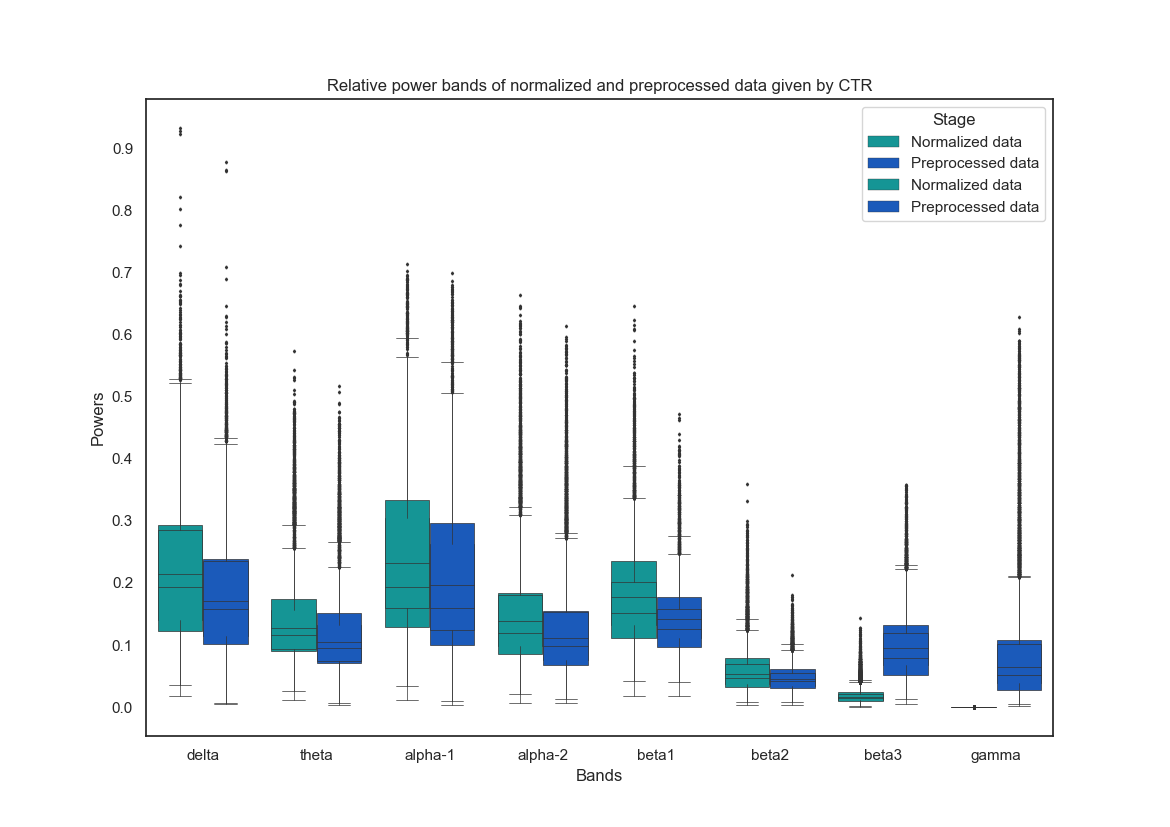
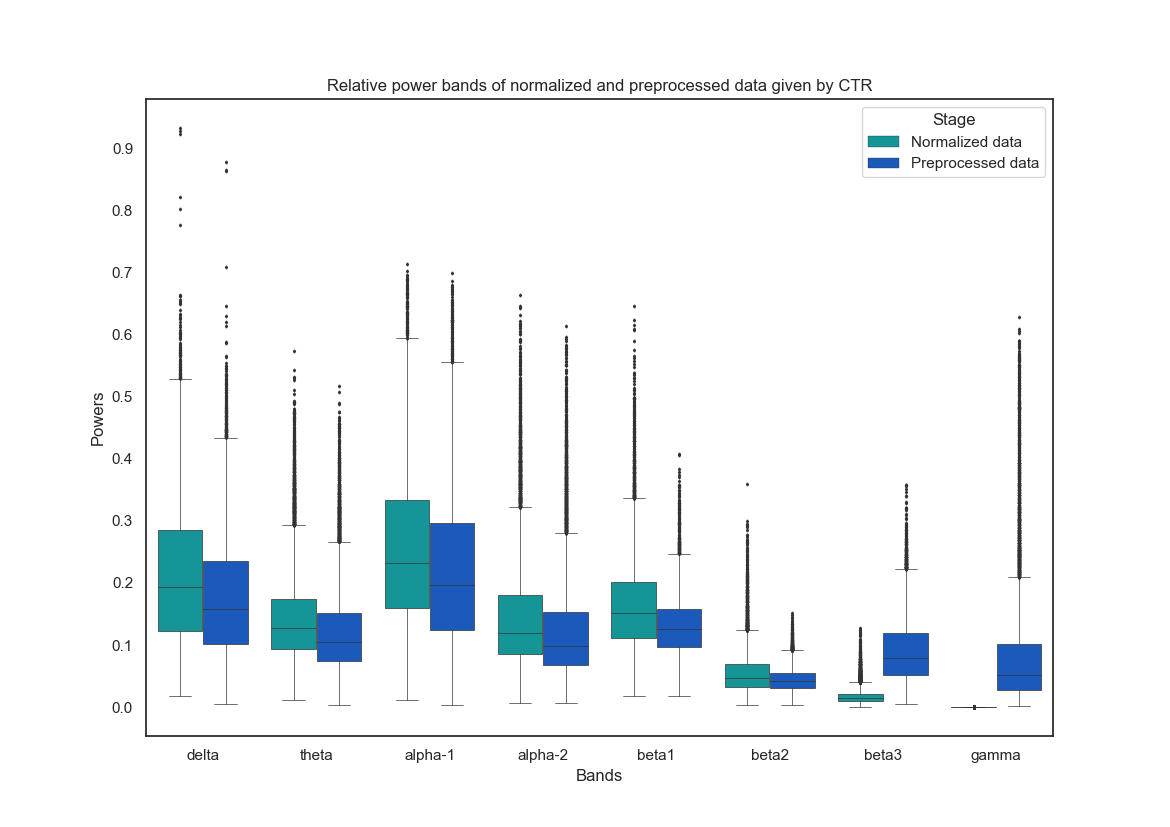
solutions problem save

diff --git a/Graphics/functions_postprocessing_channels.py b/Graphics/functions_postprocessing_channels.py
@@ -11,7 +11,7 @@ import pandas as pd
 def compare_nD_power(data,plot=False):
     """
     data: all dataset in format dataframe
-    plot: False 
+    plot: Boolean  
 
     Return
     Fig 
@@ -179,19 +179,6 @@ def compare_1D_nV_nB_power(data,name_study): #Solo sirve para biomarcadores y SR
 
 
 
-#bands=data['Bands'].unique()
-#figures=[]
-# for num,band in enumerate(bands):
-#     fig, ax = plt.subplots()
-#     filter_group=filter_1D_1V_1B(data,name_study,band)
-#     ax=sns.violinplot(x='Session',y="Powers",data=filter_group,ax=ax)
-#     plt.title(band,fontsize=40)
-#     plt.xticks(fontsize=40)
-#     plt.yticks(fontsize=40)
-#     fig.set_size_inches(15, 15) 
-#     figures.append(fig)
-# createCollage(figures,800,3)    
-
 # **************************** COMPARISON BETWEEN NORMALIZE DATA AND PROCESSING DATA *******************************
 
 def compare_norm_1D_1G_nB_power(data,name_dataset,name_group,save=False):
@@ -206,6 +193,7 @@ def compare_norm_1D_1G_nB_power(data,name_dataset,name_group,save=False):
     plt.yticks(np.arange(0,1,0.1))
     if save==True:
         plt.savefig('Resultados\Graphics_channels\Groups\{name_dataset}_{name_group}_channels.png'.format(name_dataset=name_dataset,name_group=name_group))
+        plt.close()
     return fig
 
 def compare_norm_1D_1G_nB_nV_power(data,name_dataset,name_group,save=False):
@@ -233,3 +221,18 @@ def compare_norm_1D_1G_nB_nV_power(data,name_dataset,name_group,save=False):
     if save==True:
          plt.savefig('Resultados\Graphics_channels\Visits\{name_dataset}_{name_group}_visits_channels.png'.format(name_dataset=name_dataset,name_group=name_group))
     return p
+
+
+# *********************************************************************
+#bands=data['Bands'].unique()
+#figures=[]
+# for num,band in enumerate(bands):
+#     fig, ax = plt.subplots()
+#     filter_group=filter_1D_1V_1B(data,name_study,band)
+#     ax=sns.violinplot(x='Session',y="Powers",data=filter_group,ax=ax)
+#     plt.title(band,fontsize=40)
+#     plt.xticks(fontsize=40)
+#     plt.yticks(fontsize=40)
+#     fig.set_size_inches(15, 15) 
+#     figures.append(fig)
+# createCollage(figures,800,3)    

diff --git a/test_graphics_channels_powers.py b/test_graphics_channels_powers.py
@@ -46,10 +46,10 @@ datos['Group']=datos['Group'].replace({'G2':'CTR'})
 GB = ['G1','CTR','DCL','DTA']
 #Graficos por grupo de todas las bandas comparando potencias normalizadas y no normalizadas
 
-# for gr in GB:
-#     compare_norm_1D_1G_nB_power(datos,'BIOMARCADORES',gr,save=True)
 for gr in GB:
-    compare_norm_1D_1G_nB_nV_power(datos,'BIOMARCADORES',gr,save=False)
+    compare_norm_1D_1G_nB_power(datos,'BIOMARCADORES',gr,save=True)
+# for gr in GB:
+#     compare_norm_1D_1G_nB_nV_power(datos,'BIOMARCADORES',gr,save=False)
 
 ''' NO SE NECESITA AÚN
 # 1 estudio
